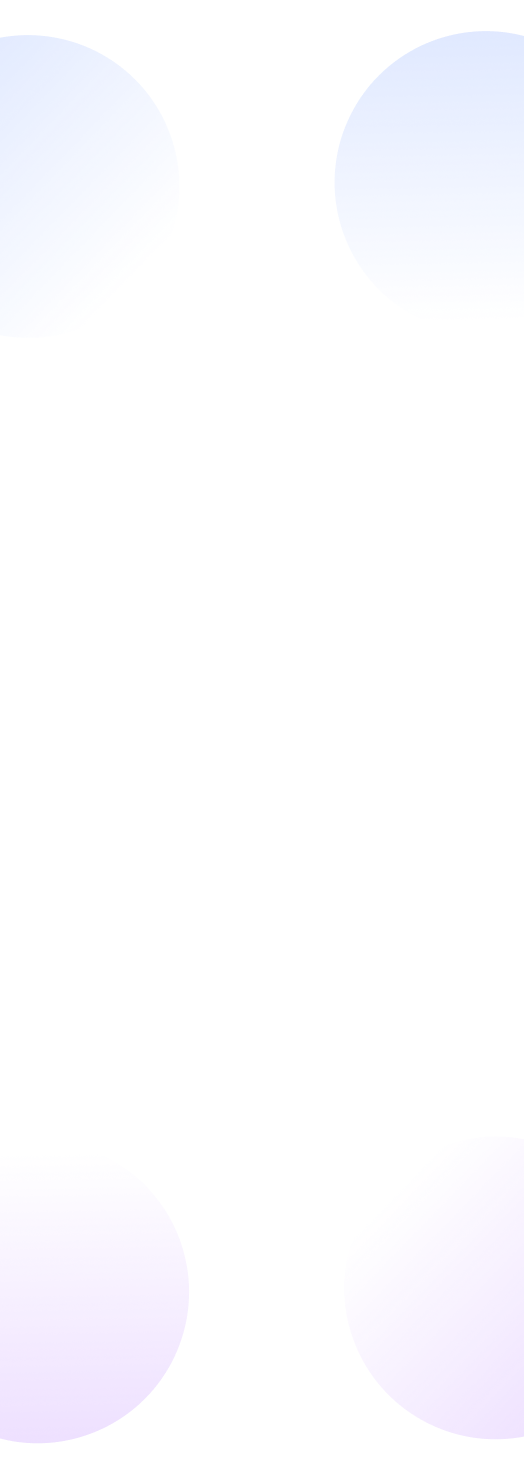
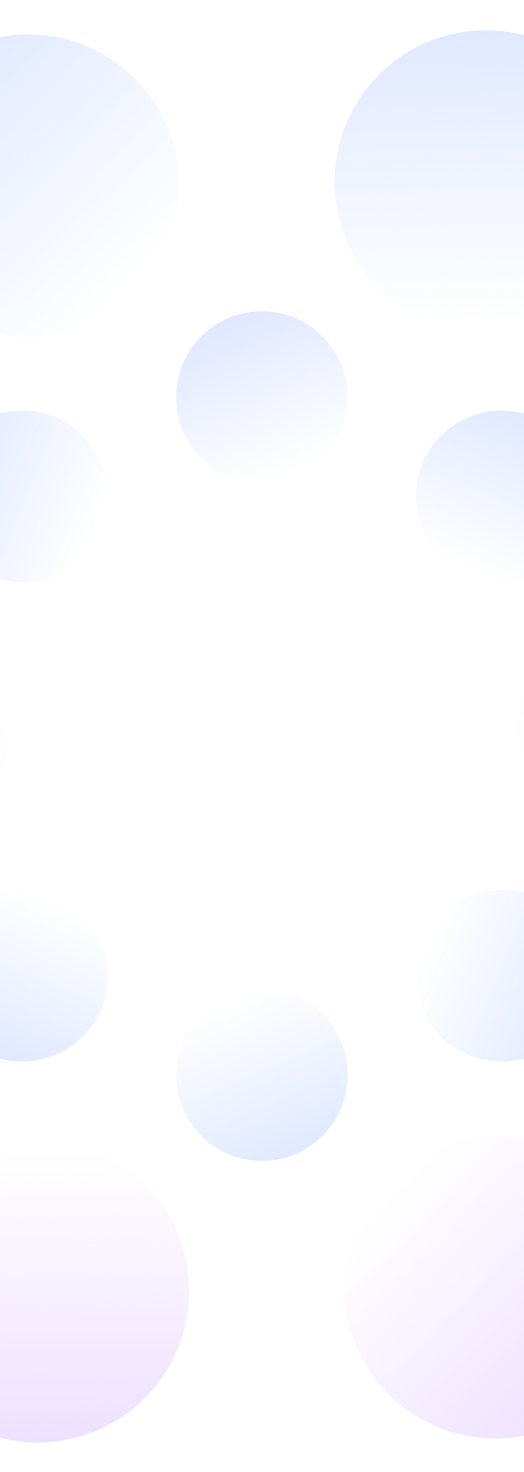
update overall design

diff --git a/components/NztOverview.vue b/components/NztOverview.vue
@@ -51,57 +51,61 @@ watch(isConnected, (connected: boolean) => {
 </script>
 
 <template>
-  <v-card rounded="0">
+  <v-card>
     <v-card-title class="text-uppercase">
       <v-icon icon="mdi-square-medium" />
       Your NZT
     </v-card-title>
 
-    <v-img src="/ring.png" height="396" />
+    <v-img src="/bubbles.png" height="800" cover>
+      <div class="d-flex flex-column" style="height: 790px;">
+        <v-img src="/ring.png" height="250" class="mt-16" />
+        <v-spacer />
+        <v-card-text class="mx-4">
+          <v-row>
+            <v-col>
+              <div class="text-h1 font-weight-bold">
+                0<span class="text-h6 font-weight-bold">.00</span>
+              </div>
+              <div class="text-subtitle-1">
+                Claimable
+              </div>
+            </v-col>
+            <v-col>
+              <v-list density="compact">
+                <v-list-item subtitle="Total">
+                  <template #append>
+                    {{ parseFloat(formatUnits(balance.total, 18)).toPrecision(3) }}
+                  </template>
+                </v-list-item>
+                <v-list-item subtitle="Locked">
+                  <template #append>
+                    0.00
+                  </template>
+                </v-list-item>
+                <v-list-item subtitle="Claimed">
+                  <template #append>
+                    0.00
+                  </template>
+                </v-list-item>
+              </v-list>
+            </v-col>
+          </v-row>
+        </v-card-text>
 
-    <v-card-text>
-      <v-row>
-        <v-col>
-          <div class="text-h1 font-weight-bold">
-            0<span class="text-h6 font-weight-bold">.00</span>
-          </div>
-          <div class="text-subtitle-1">
-            Claimable
-          </div>
-        </v-col>
-        <v-col>
-          <v-list density="compact">
-            <v-list-item subtitle="Total">
-              <template #append>
-                {{ parseFloat(formatUnits(balance.total, 18)).toPrecision(3) }}
-              </template>
-            </v-list-item>
-            <v-list-item subtitle="Locked">
-              <template #append>
-                0.00
-              </template>
-            </v-list-item>
-            <v-list-item subtitle="Claimed">
-              <template #append>
-                0.00
-              </template>
-            </v-list-item>
-          </v-list>
-        </v-col>
-      </v-row>
-    </v-card-text>
-
-    <v-card-actions>
-      <v-btn
-        text="Buy now"
-        size="large"
-        rounded="0"
-        variant="elevated"
-        color="yellow"
-        href="https://buy.nexislabs.io"
-        target="_blank"
-        block
-      />
-    </v-card-actions>
+        <v-card-actions>
+          <v-btn
+            text="Buy now"
+            size="large"
+            rounded="0"
+            variant="elevated"
+            color="yellow"
+            href="https://buy.nexislabs.io"
+            target="_blank"
+            block
+          />
+        </v-card-actions>
+      </div>
+    </v-img>
   </v-card>
 </template>

diff --git a/pages/index.vue b/pages/index.vue
@@ -43,19 +43,20 @@ const activeRoadmapItem = computed(() => {
       <v-spacer />
       <connect-button />
     </app-bar>
-    <v-container>
+
+    <v-container class="mt-10">
       <v-row>
         <v-col cols="12" md="3">
           <nzt-overview />
         </v-col>
         <v-col cols="12" md="6">
-          <v-card rounded="0">
+          <v-card>
             <v-card-title class="text-uppercase">
               <v-icon icon="mdi-square-medium" />
               Roadmap
             </v-card-title>
 
-            <v-list>
+            <v-list class="py-0">
               <v-list-item
                 v-for="(item, i) in roadmap"
                 :key="i"
@@ -69,7 +70,7 @@ const activeRoadmapItem = computed(() => {
                   <span
                     :class="{
                       'mr-3': xs,
-                      'text-h1 font-weight-bold mx-12 my-6': !xs,
+                      'text-h1 font-weight-bold mx-12 my-12': !xs,
                     }"
                     v-text="i + 1"
                   />
@@ -79,26 +80,26 @@ const activeRoadmapItem = computed(() => {
           </v-card>
         </v-col>
         <v-col cols="12" md="3">
-          <v-card rounded="0" class="mb-6" height="140">
+          <v-card class="mb-6" height="140">
             <v-card-title class="text-uppercase">
               <v-icon icon="mdi-square-medium" />
               Info
             </v-card-title>
 
-            <v-card-text>
+            <v-card-text class="mt-4">
               {{ activeRoadmapItem?.subtitle }}
             </v-card-text>
           </v-card>
 
-          <v-card rounded="0">
+          <v-card>
             <v-card-title class="text-uppercase">
               <v-icon icon="mdi-square-medium" />
               Your Nexis pass nft
             </v-card-title>
 
-            <v-img src="/nft_pass.png" height="200" class="my-16" />
+            <v-img src="/nft_pass.png" height="220" class="my-12" />
 
-            <v-card-text>
+            <v-card-text style="height: 260px;" class="d-flex flex-column align-center justify-center">
               Your on-chain NZT account.
               <br>
               On-chain verification of your $NZT
@@ -111,7 +112,7 @@ const activeRoadmapItem = computed(() => {
                 size="large"
                 rounded="0"
                 block
-                color="indigo"
+                color="#0f1723"
               />
             </v-card-actions>
           </v-card>

diff --git a/plugins/vuetify.ts b/plugins/vuetify.ts
@@ -1,15 +1,78 @@
 import '@mdi/font/css/materialdesignicons.css'
 import { md3 } from 'vuetify/blueprints'
-import { createVuetify } from 'vuetify'
+import { createVuetify, ThemeDefinition } from 'vuetify'
 import * as components from 'vuetify/components'
 import * as directives from 'vuetify/directives'
 
 export default defineNuxtPlugin((nuxtApp) => {
+  const dark: ThemeDefinition = {
+    dark: true,
+    colors: {
+      background: '#060606',
+      surface: '#060606',
+      'surface-variant': '#BDBDBD',
+      'on-surface-variant': '#424242',
+      primary: '#0057FFFB',
+      'primary-darken-1': '#0057FFFB',
+      secondary: '#0057FFFB',
+      'secondary-darken-1': '#0057FFFB',
+      error: '#CF6679',
+      info: '#2196F3',
+      success: '#4CAF50',
+      warning: '#FB8C00',
+      'on-background': '#fff',
+      'on-surface': '#fff',
+      'on-primary': '#fff',
+      'on-primary-darken-1': '#fff',
+      'on-secondary': '#000',
+      'on-secondary-darken-1': '#000',
+      'on-error': '#fff',
+      'on-info': '#fff',
+      'on-success': '#fff',
+      'on-warning': '#fff',
+    },
+    variables: {
+      'border-color': '#FFFFFF',
+      'border-opacity': 0.12,
+      'high-emphasis-opacity': 1,
+      'medium-emphasis-opacity': 0.7,
+      'disabled-opacity': 0.5,
+      'idle-opacity': 0.1,
+      'hover-opacity': 0.04,
+      'focus-opacity': 0.12,
+      'selected-opacity': 0.08,
+      'activated-opacity': 0.12,
+      'pressed-opacity': 0.16,
+      'dragged-opacity': 0.08,
+      'theme-kbd': '#212529',
+      'theme-on-kbd': '#FFFFFF',
+      'theme-code': '#343434',
+      'theme-on-code': '#CCCCCC',
+    },
+  }
+
   const vuetify = createVuetify({
     ssr: false,
     blueprint: md3,
     components,
     directives,
+    theme: {
+      defaultTheme: 'dark',
+      themes: {
+        dark,
+      },
+    },
+    defaults: {
+      VCard: {
+        rounded: 0,
+        border: true,
+      },
+      VCardTitle: {
+        style: {
+          background: '#FFFFFF08',
+        },
+      },
+    },
   })
 
   nuxtApp.vueApp.use(vuetify)

diff --git a/components/app/AppBar.vue b/components/app/AppBar.vue
@@ -5,12 +5,15 @@ withDefaults(defineProps<{ order?: number | string }>(), {
 
 const urls = useUrls()
 const router = useRouter()
+
+const { theme } = useUi()
 </script>
 
 <template>
-  <v-app-bar :order="order">
-    <span style="cursor: pointer;" @click="router.push(urls.index)">
+  <v-app-bar :order="order" border :color="theme.current.value.colors.background">
+    <span class="d-flex align-center" style="cursor: pointer;" @click="router.push(urls.index)">
       <v-img src="/logo.png" width="160" />
+      <v-chip color="primary" text="Beta" rounded variant="elevated" class="mt-1" />
     </span>
 
     <slot />

diff --git a/components/ConnectButton.vue b/components/ConnectButton.vue
@@ -24,10 +24,13 @@ const addressTruncated = computed(() => {
 
 <template>
   <v-btn
-    :text="isConnected ? addressTruncated : 'CONNECT'"
-    color="primary"
     class="text-none"
     :variant="isConnected ? 'text' : 'elevated'"
+    style="background: linear-gradient(90deg, #3ED0F0 0%, #179EFF 24.5%, #0057FF 67%, #0A4BCA 95%);"
+    size="large"
     @click="modal.open()"
-  />
+  >
+    <v-icon icon="mdi-wallet" start />
+    <span v-text="isConnected ? addressTruncated : 'Connect Wallet'" />
+  </v-btn>
 </template>
